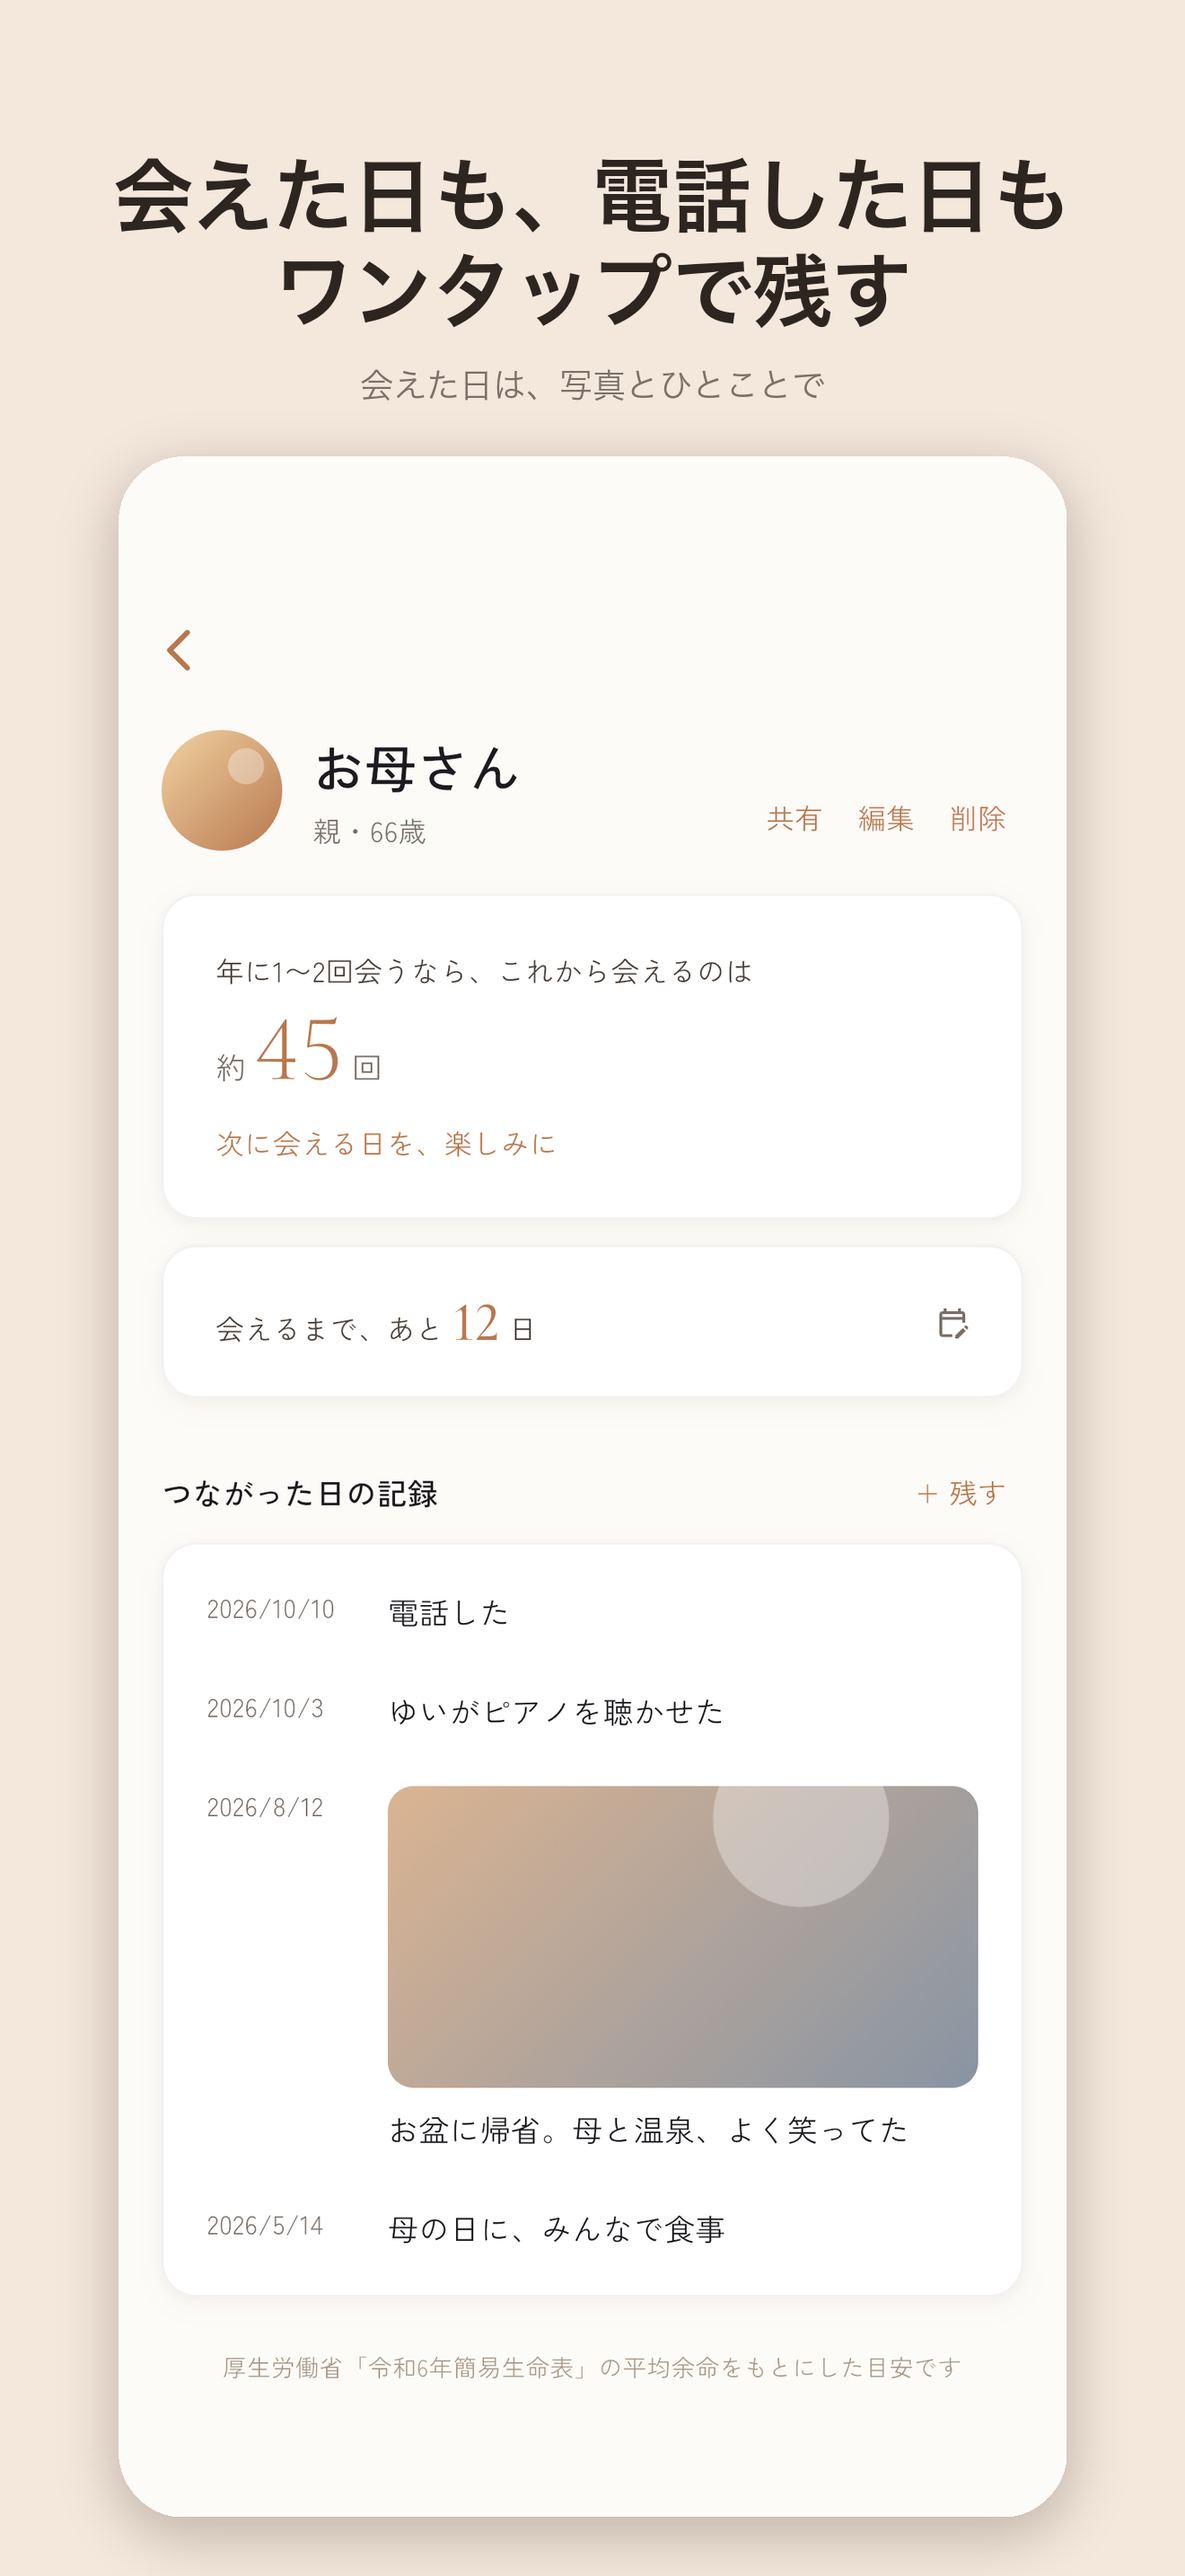
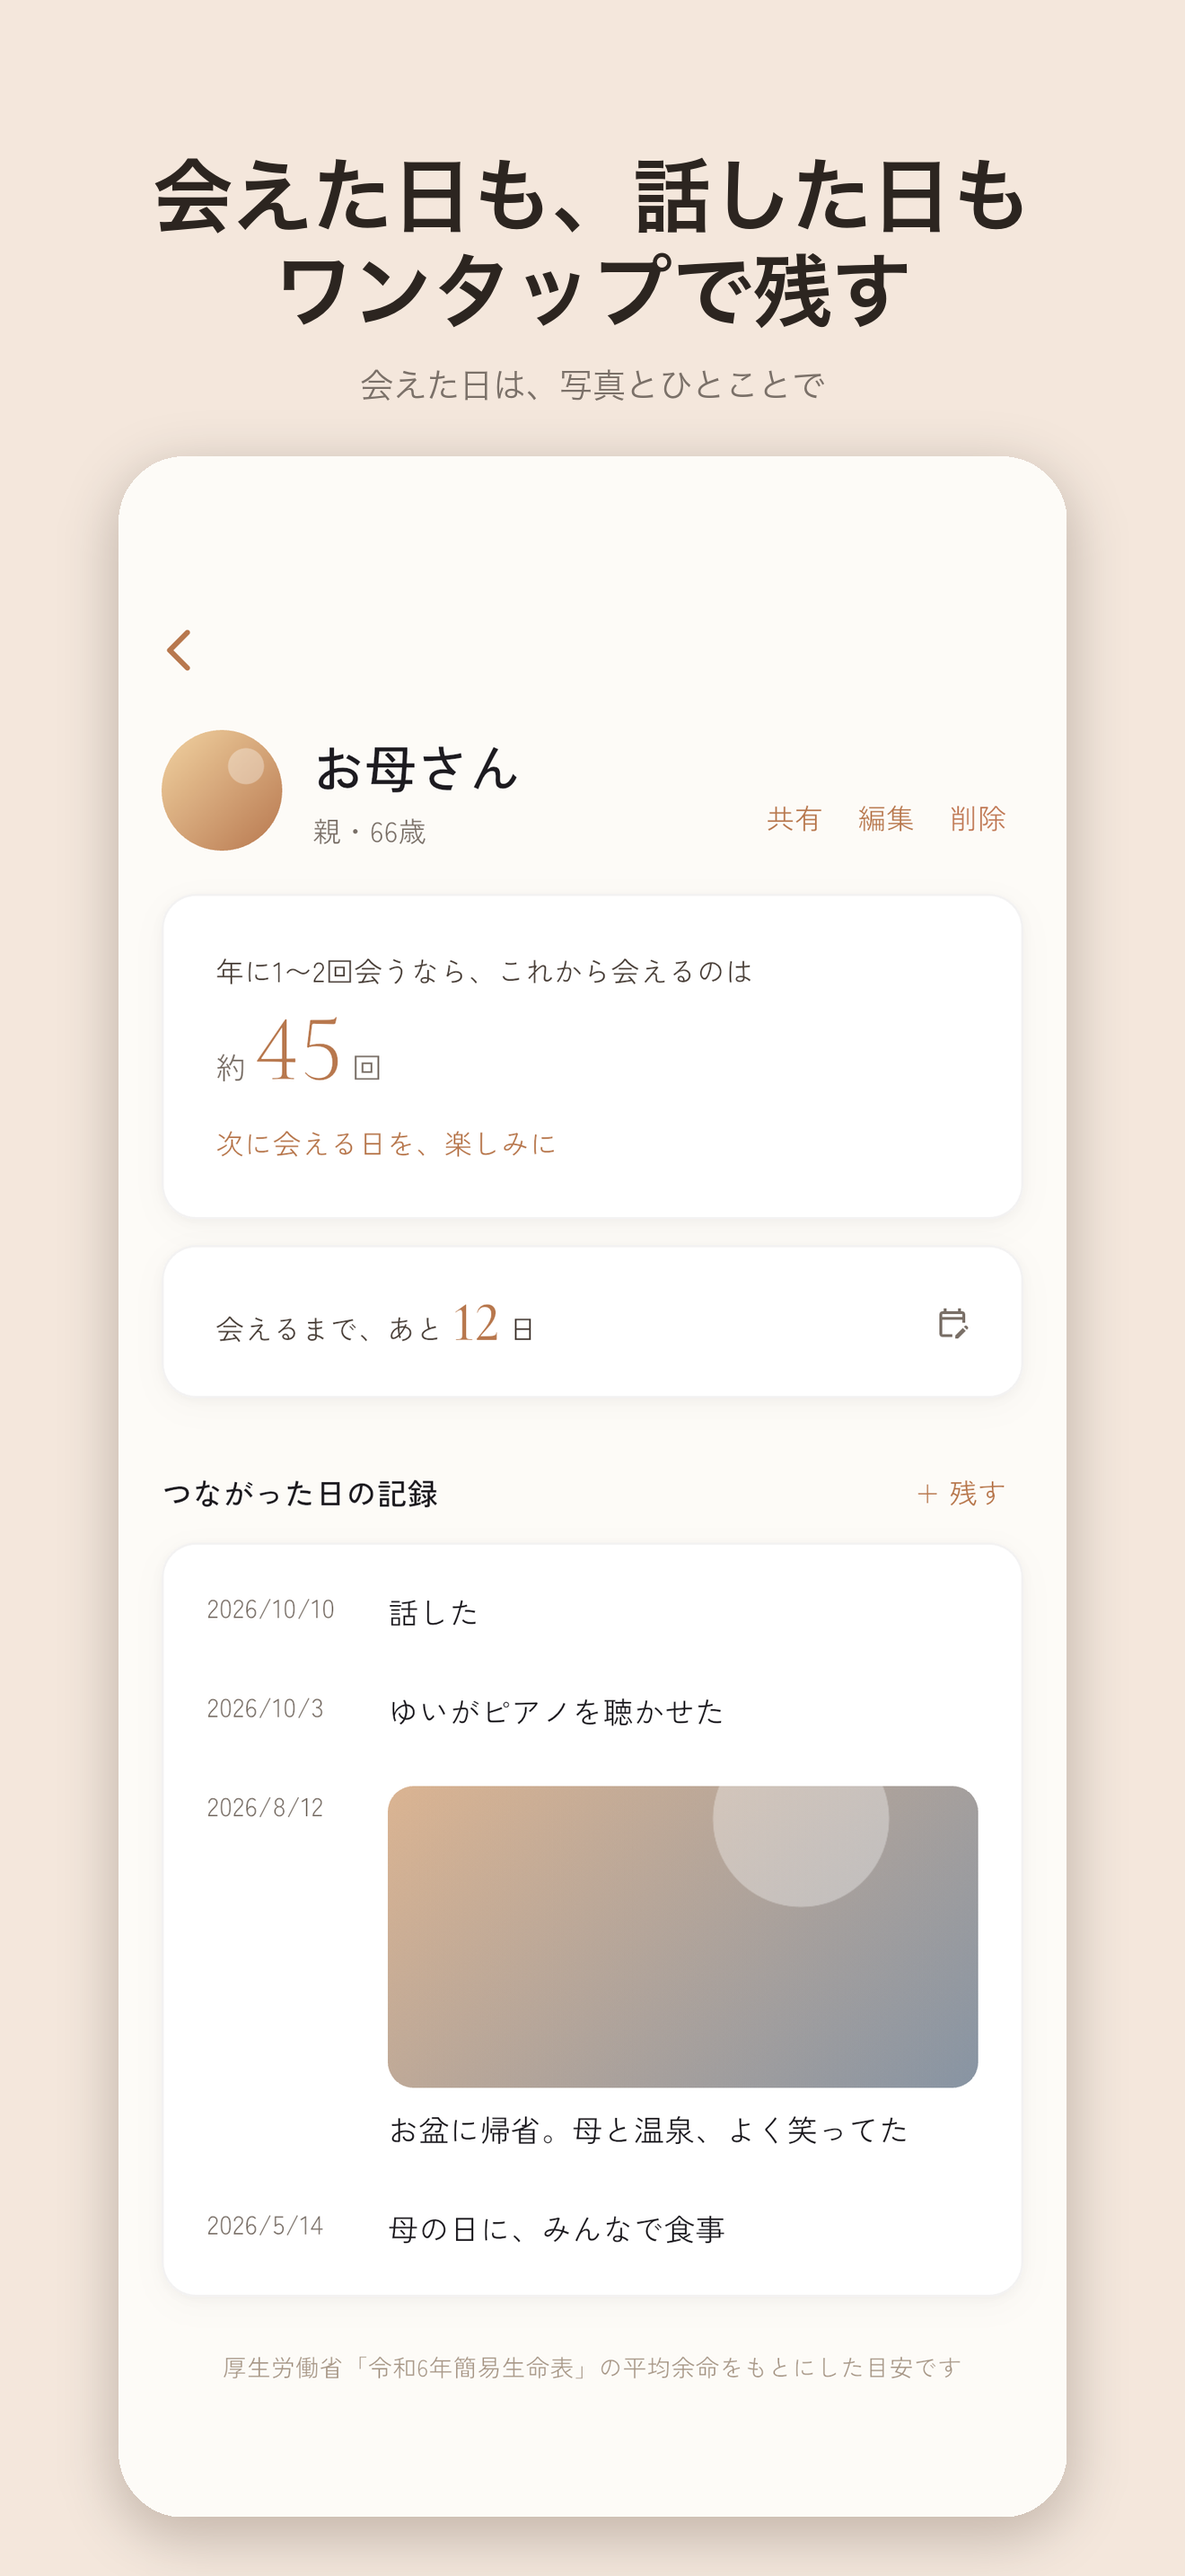
v2.0.0: 電話とビデオ通話を「話した」にまとめる、使い方の案内を追加、ビルド16
- つながり方を 会えた/話した/メッセージ の3つに(既存のビデオ通話の記録も「話した」と表示)
- ウィジェットのボタンも 話した/メッセージ の2つに
- オンボーディングに「このアプリでできること」の画面
- 家族タブに、閉じるまで出る「使い方」の案内(ウィジェットの置き方へのリンクつき)
- ストアのスクリーンショットと文言を「話した」に合わせて作り直し

Changed region(s): [[0.497, 0.0621, 0.9008, 0.0931], [0.0932, 0.0621, 0.4659, 0.0931], [0.3417, 0.6206, 0.3727, 0.6517]]

diff --git a/lib/views/onboarding/onboarding_page.dart b/lib/views/onboarding/onboarding_page.dart
@@ -51,7 +51,7 @@ class _OnboardingPageState extends ConsumerState<OnboardingPage> {
   }
 
   void _nextStep() {
-    // 価値を感じるまでを短くするため、説明は2画面だけ。そのあと家族の登録へ
+    // 説明は3画面(人生◯日目/一緒に過ごせる時間/できること)。そのあと家族の登録へ
     if (_step < _lastStep) {
       setState(() => _step++);
     } else {
@@ -152,7 +152,7 @@ class _OnboardingPageState extends ConsumerState<OnboardingPage> {
     );
   }
 
-  static const _lastStep = 1;
+  static const _lastStep = 2;
 
   Widget _stepContent(int lifeDays, int remainingDays) {
     switch (_step) {
@@ -220,44 +220,47 @@ class _OnboardingPageState extends ConsumerState<OnboardingPage> {
           ],
         );
       case 2:
-        // Step 3: たった一度きり
+        // Step 3: このアプリでできること(新しい使い方なので、登録の前に見せる)
+        Widget item(IconData icon, String title, String body) => Padding(
+              padding: const EdgeInsets.only(bottom: 26),
+              child: Row(crossAxisAlignment: CrossAxisAlignment.start, children: [
+                Container(
+                  width: 44,
+                  height: 44,
+                  decoration: const BoxDecoration(
+                      shape: BoxShape.circle, color: AppColors.accentSurface2),
+                  child: Icon(icon, color: AppColors.accent, size: 22),
+                ),
+                const SizedBox(width: 16),
+                Expanded(
+                  child: Column(crossAxisAlignment: CrossAxisAlignment.start, children: [
+                    Text(title,
+                        style: GoogleFonts.zenKakuGothicNew(
+                            fontSize: 16, fontWeight: FontWeight.w600, height: 1.5)),
+                    const SizedBox(height: 4),
+                    Text(body,
+                        style: GoogleFonts.zenKakuGothicNew(
+                            fontSize: 13, height: 1.7, color: AppColors.textSecondary)),
+                  ]),
+                ),
+              ]),
+            );
         return Column(
           mainAxisSize: MainAxisSize.min,
+          crossAxisAlignment: CrossAxisAlignment.start,
           children: [
-            const Text('\u{1F932}', style: TextStyle(fontSize: 32)), // 🤲
-            const SizedBox(height: 40),
-            Text.rich(
-              TextSpan(
-                children: [
-                  TextSpan(
-                    text: 'でも\n今日という日は\n人生で',
-                    style: GoogleFonts.cormorantGaramond(fontFeatures: const [FontFeature.liningFigures()], 
-                      fontSize: 26,
-                      fontWeight: FontWeight.w300,
-                      height: 1.8,
-                    ),
-                  ),
-                  TextSpan(
-                    text: 'たった一度きり',
-                    style: GoogleFonts.cormorantGaramond(fontFeatures: const [FontFeature.liningFigures()], 
-                      fontSize: 26,
-                      fontWeight: FontWeight.w500,
-                      height: 1.8,
-                      color: AppColors.accent,
-                    ),
-                  ),
-                  TextSpan(
-                    text: 'です',
-                    style: GoogleFonts.cormorantGaramond(fontFeatures: const [FontFeature.liningFigures()], 
-                      fontSize: 26,
-                      fontWeight: FontWeight.w300,
-                      height: 1.8,
-                    ),
-                  ),
-                ],
-              ),
-              textAlign: TextAlign.center,
+            Center(
+              child: Text('このアプリでできること',
+                  style: GoogleFonts.zenKakuGothicNew(
+                      fontSize: 20, fontWeight: FontWeight.w600)),
             ),
+            const SizedBox(height: 32),
+            item(Icons.favorite_border, 'これから会える回数がわかる',
+                '親の年齢と、会う頻度から計算'),
+            item(Icons.event_outlined, '次に会う日を、楽しみに数える',
+                'ホーム画面で「あと◯日」と数える'),
+            item(Icons.touch_app_outlined, '会えた日・話した日を残す',
+                'ボタンひとつで残せて、積み重なる'),
           ],
         );
       case 3:

diff --git a/lib/views/family/family_page.dart b/lib/views/family/family_page.dart
@@ -122,6 +122,7 @@ class FamilyPage extends ConsumerWidget {
                     ? _empty(context, ref)
                     : Column(
                         children: [
+                          const _HowToTip(),
                           for (final p in list) ...[
                             _FamilyCard(
                               person: p,
@@ -306,4 +307,69 @@ class _FamilyCard extends StatelessWidget {
       ),
     ),
   );
+}
+
+
+/// 使い方の案内(家族を登録したあと、閉じるまで出す)
+class _HowToTip extends ConsumerStatefulWidget {
+  const _HowToTip();
+
+  @override
+  ConsumerState<_HowToTip> createState() => _HowToTipState();
+}
+
+class _HowToTipState extends ConsumerState<_HowToTip> {
+  @override
+  Widget build(BuildContext context) {
+    final prefs = ref.watch(sharedPreferencesProvider);
+    if (prefs.getBool(PrefsKeys.familyTipDismissed) ?? false) {
+      return const SizedBox.shrink();
+    }
+    Widget line(IconData icon, String text) => Padding(
+          padding: const EdgeInsets.only(bottom: 8),
+          child: Row(crossAxisAlignment: CrossAxisAlignment.start, children: [
+            Icon(icon, size: 18, color: AppColors.accent),
+            const SizedBox(width: 10),
+            Expanded(
+              child: Text(text,
+                  style: GoogleFonts.zenKakuGothicNew(fontSize: 13, height: 1.6)),
+            ),
+          ]),
+        );
+    return Padding(
+      padding: const EdgeInsets.only(bottom: 14),
+      child: Container(
+        padding: const EdgeInsets.fromLTRB(18, 16, 18, 8),
+        decoration: BoxDecoration(
+          color: AppColors.accentSurface,
+          borderRadius: BorderRadius.circular(16),
+        ),
+        child: Column(crossAxisAlignment: CrossAxisAlignment.start, children: [
+          Text('使い方',
+              style: GoogleFonts.zenKakuGothicNew(
+                  fontSize: 14, fontWeight: FontWeight.w600)),
+          const SizedBox(height: 10),
+          line(Icons.touch_app_outlined, '会えた日・話した日に、カードの下のボタンを押して残します'),
+          line(Icons.event_outlined, '「次に会う日を入れる」で、帰省の日までを数えます'),
+          line(Icons.widgets_outlined, 'ホーム画面にウィジェットを置くと、毎日目に入ります'),
+          Row(mainAxisAlignment: MainAxisAlignment.end, children: [
+            TextButton(
+              onPressed: () => WidgetGuideSheet.show(context),
+              child: Text('ウィジェットの置き方',
+                  style: GoogleFonts.zenKakuGothicNew(fontSize: 13, color: AppColors.accent)),
+            ),
+            TextButton(
+              onPressed: () async {
+                await prefs.setBool(PrefsKeys.familyTipDismissed, true);
+                setState(() {});
+              },
+              child: Text('閉じる',
+                  style: GoogleFonts.zenKakuGothicNew(
+                      fontSize: 13, fontWeight: FontWeight.w600, color: AppColors.textSecondary)),
+            ),
+          ]),
+        ]),
+      ),
+    );
+  }
 }

diff --git a/lib/views/family/quick_contact_row.dart b/lib/views/family/quick_contact_row.dart
@@ -10,12 +10,12 @@ import 'meeting_log_sheet.dart';
 IconData contactIcon(ContactKind k) => switch (k) {
   ContactKind.met => Icons.people_alt_outlined,
   ContactKind.call => Icons.call_outlined,
-  ContactKind.video => Icons.videocam_outlined,
+  ContactKind.video => Icons.call_outlined,
   ContactKind.message => Icons.chat_bubble_outline,
 };
 
 /// 家族のカードの下に並べる「つながった」ボタン。
-/// 電話・ビデオ・メッセージはワンタップで今日の記録にする(取り消しできる)。
+/// 話した(電話・ビデオ)・メッセージはワンタップで今日の記録にする(取り消しできる)。
 /// 会えた日は、写真とひとことを残せるシートを開く
 class QuickContactRow extends ConsumerWidget {
   const QuickContactRow({super.key, required this.person});
@@ -64,7 +64,7 @@ class QuickContactRow extends ConsumerWidget {
   Widget build(BuildContext context, WidgetRef ref) {
     return Row(
       children: [
-        for (final k in ContactKind.values)
+        for (final k in selectableContactKinds)
           Expanded(
             child: Semantics(
               button: true,

diff --git a/ios/FamilyWidget/WidgetShared.swift b/ios/FamilyWidget/WidgetShared.swift
@@ -200,7 +200,8 @@ let meetFormatter: DateFormatter = {
 struct ContactButtons: View {
     let member: Member
     let compact: Bool
-    private let kinds: [(String, String)] = [("call", "phone"), ("video", "video"), ("message", "message")]
+    // 電話とビデオ通話は「話した」にまとめる
+    private let kinds: [(String, String)] = [("call", "phone"), ("message", "message")]
     var body: some View {
         HStack(spacing: compact ? 6 : 8) {
             ForEach(kinds, id: \.0) { k in
@@ -243,7 +244,7 @@ struct NextWidgetView: View {
 
     private var tappedText: String? {
         guard let k = entry.justTapped else { return nil }
-        let l = ["call": "電話した", "video": "ビデオ通話", "message": "メッセージ"][k] ?? "つながった"
+        let l = ["call": "話した", "video": "話した", "message": "メッセージ"][k] ?? "つながった"
         return "「\(l)」を残しました"
     }
 

diff --git a/lib/models/meeting_log.dart b/lib/models/meeting_log.dart
@@ -26,13 +26,17 @@ class MeetingLog {
 }
 
 /// 家族とのつながり方（先頭の met が、値の無い既存データの読み込み先になる）
+/// video は v2.0 の試作版の名残。画面では call と同じ「話した」として扱う
 enum ContactKind { met, call, video, message }
+
+/// 画面で選べるつながり方(電話とビデオ通話は「話した」にまとめる)
+const selectableContactKinds = [ContactKind.met, ContactKind.call, ContactKind.message];
 
 extension ContactKindLabel on ContactKind {
   String get label => switch (this) {
         ContactKind.met => '会えた',
-        ContactKind.call => '電話した',
-        ContactKind.video => 'ビデオ通話',
+        ContactKind.call => '話した',
+        ContactKind.video => '話した',
         ContactKind.message => 'メッセージ',
       };
 

diff --git a/lib/views/records/records_page.dart b/lib/views/records/records_page.dart
@@ -144,7 +144,7 @@ class _RecordsPageState extends ConsumerState<RecordsPage> {
             if (items.isEmpty)
               Padding(
                 padding: const EdgeInsets.symmetric(vertical: 32),
-                child: Text('家族と会えた日や電話した日を、\nここに残せます',
+                child: Text('家族と会えた日や話した日を、\nここに残せます',
                     textAlign: TextAlign.center,
                     style: GoogleFonts.zenKakuGothicNew(
                         fontSize: 13, height: 1.8, color: AppColors.textMuted)),

diff --git a/ios/FamilyWidget/FamilyWidget.swift b/ios/FamilyWidget/FamilyWidget.swift
@@ -29,7 +29,7 @@ struct FamilyWidget: Widget {
             NextWidgetView(entry: entry)
         }
         .configurationDisplayName("家族")
-        .description("次に会う日までの日数と、今月つながった日。電話した日などを、ここから残せます")
+        .description("次に会う日までの日数と、今月つながった日。話した日などを、ここから残せます")
         .supportedFamilies([.systemSmall, .systemMedium, .accessoryRectangular, .accessoryInline, .accessoryCircular])
     }
 }

diff --git a/lib/views/family/family_detail_page.dart b/lib/views/family/family_detail_page.dart
@@ -178,7 +178,7 @@ class FamilyDetailPage extends ConsumerWidget {
             Padding(
               padding: const EdgeInsets.symmetric(vertical: 16),
               child: Text(
-                '会えた日や電話した日に、ひとこと残せます',
+                '会えた日や話した日に、ひとこと残せます',
                 style: GoogleFonts.zenKakuGothicNew(
                   fontSize: 13,
                   color: AppColors.textMuted,

diff --git a/lib/views/family/meeting_log_sheet.dart b/lib/views/family/meeting_log_sheet.dart
@@ -161,7 +161,7 @@ class _MeetingLogSheetState extends ConsumerState<MeetingLogSheet> {
               if (!widget.memoryMode)
                 Row(
                   children: [
-                    for (final k in ContactKind.values) ...[
+                    for (final k in selectableContactKinds) ...[
                       if (k != ContactKind.met) const SizedBox(width: 6),
                       Expanded(
                         child: GestureDetector(

diff --git a/integration_test/onboarding_screens_test.dart b/integration_test/onboarding_screens_test.dart
@@ -14,10 +14,10 @@ void main() {
     await tapText(tester, 'はじめる');
     await shot(binding, tester, '02_birth');
     await tapText(tester, '次へ');
-    for (var i = 0; i < 2; i++) {
+    for (var i = 0; i < 3; i++) {
       await wait(tester, 2500);
       await shot(binding, tester, '03_step${i + 1}');
-      if (i < 1) await tapText(tester, '次へ');
+      if (i < 2) await tapText(tester, '次へ');
     }
   });
 }

diff --git a/integration_test/app_screens_test.dart b/integration_test/app_screens_test.dart
@@ -39,7 +39,7 @@ void main() {
     await shot(binding, tester, '13_family_list');
 
     // 電話した(ワンタップ)→ 取り消しの案内を撮る
-    await tapText(tester, '電話した');
+    await tapText(tester, '話した');
     await shot(binding, tester, '13b_quick_call');
     // 会えた日を残す(シート)
     await tester.ensureVisible(find.text('会えた').first);

diff --git a/integration_test/store_screens_test.dart b/integration_test/store_screens_test.dart
@@ -34,6 +34,7 @@ void main() {
     await prefs.setBool('notification_enabled', false);
     await prefs.setBool('pro_purchased', true);
     await prefs.setBool('legacy_diary_banner_dismissed', true);
+    await prefs.setBool('family_tip_dismissed', true);
 
     app.main();
     await wait(tester, 3000);
